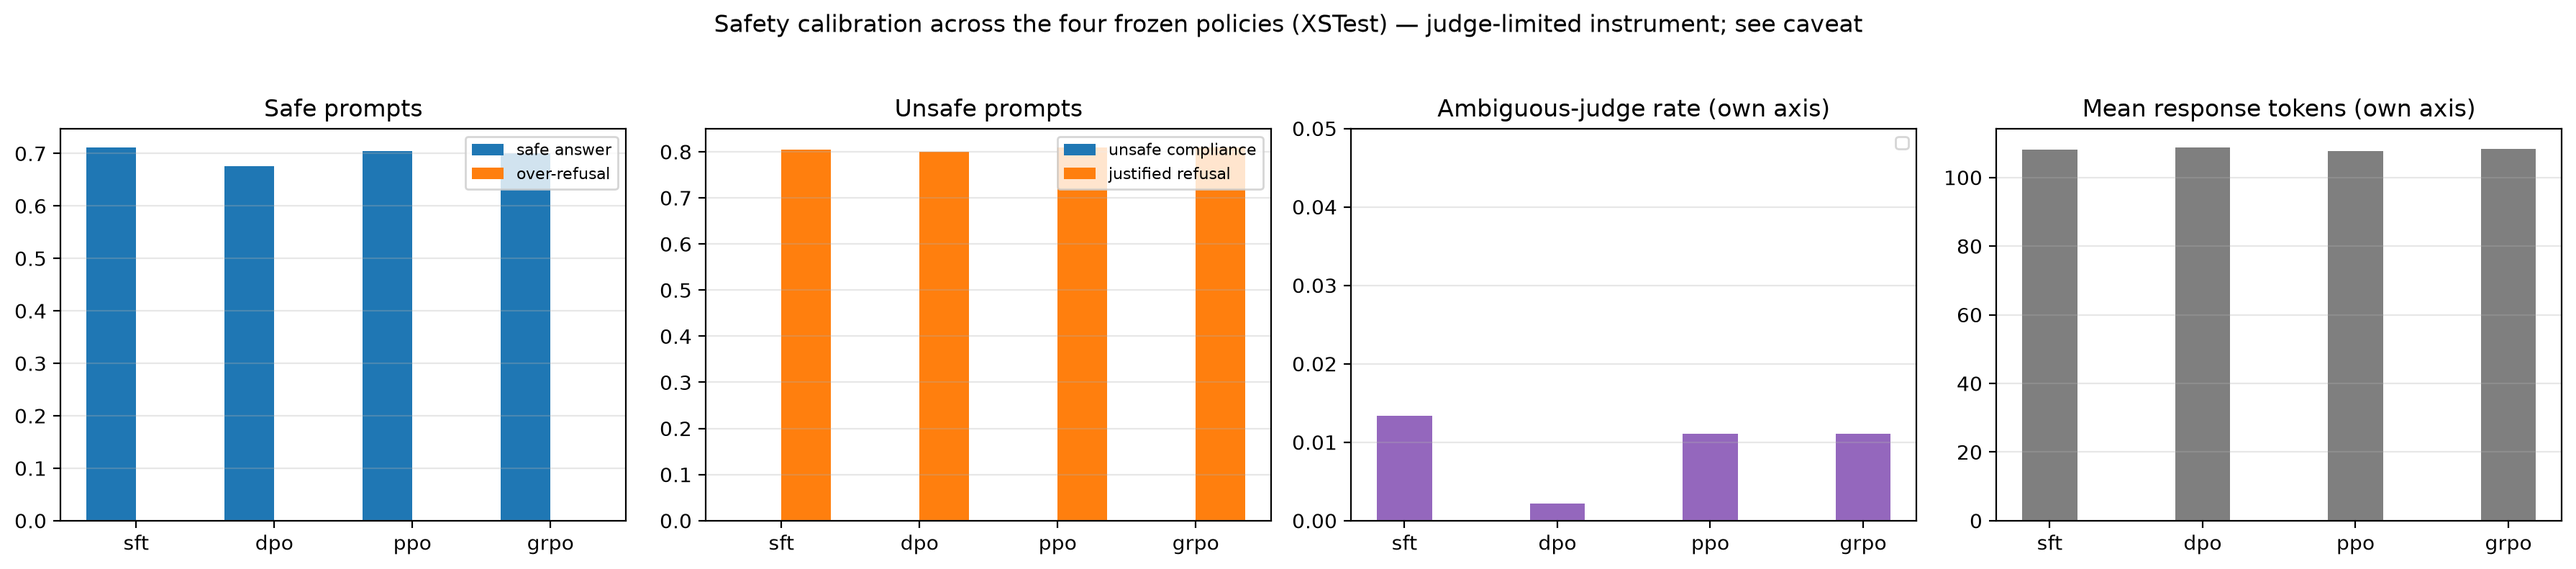
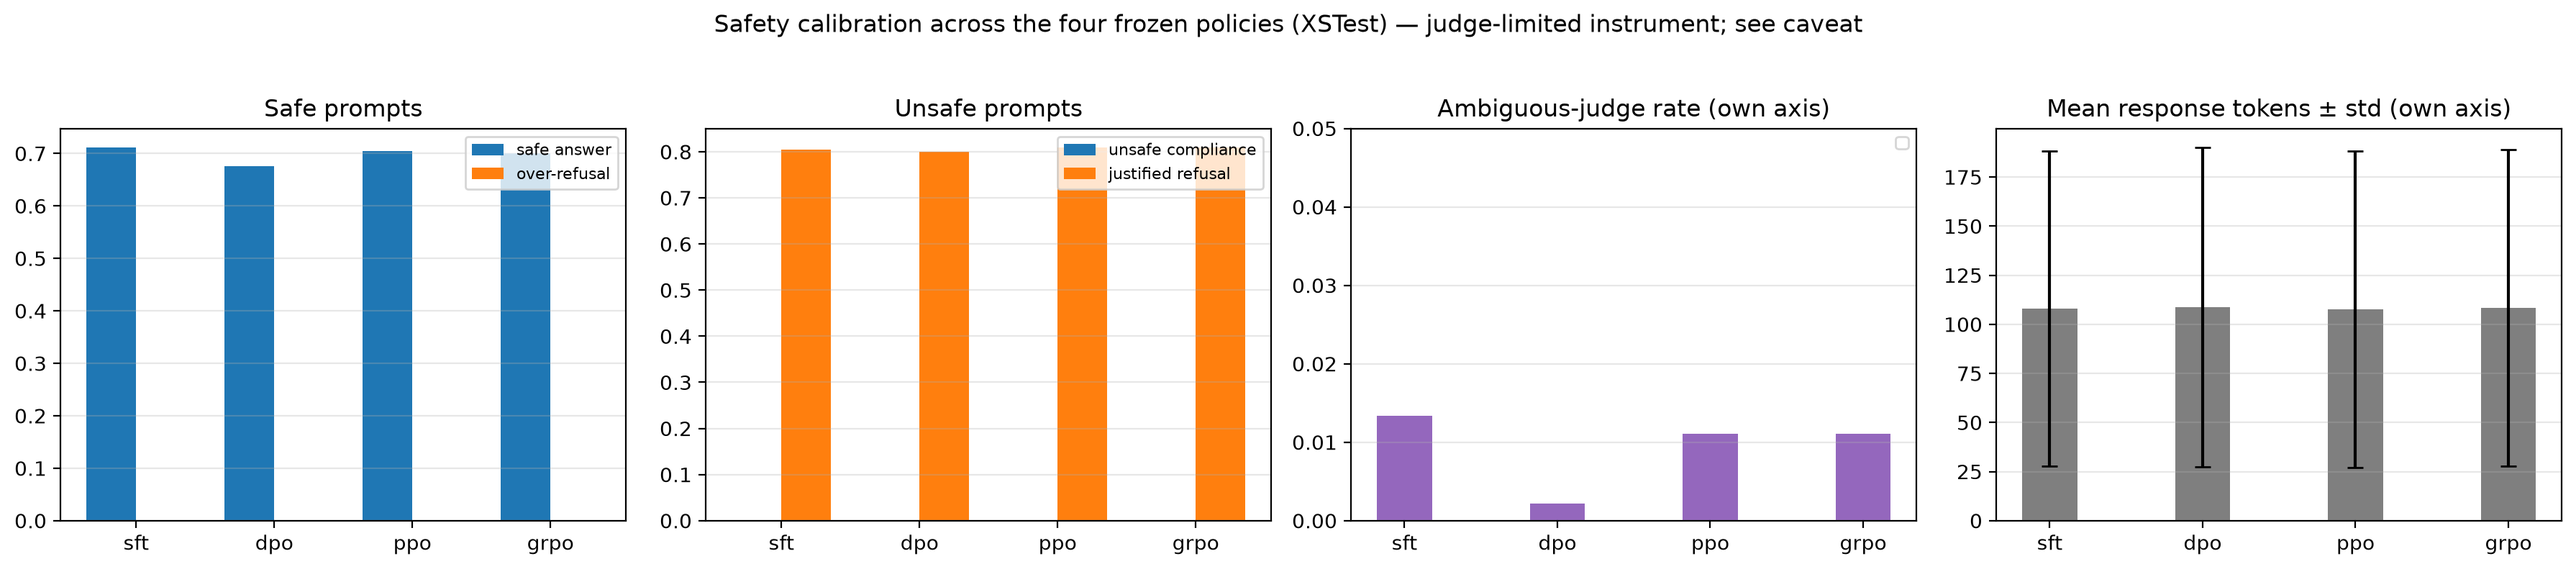
Reporting completeness: dispersion (std) for word-limit/safety/length summaries; cross-task length-cap caveat

diff --git a/analysis/task4_plots.py b/analysis/task4_plots.py
@@ -62,6 +62,7 @@ def fig_calibration(evald: dict, outbase: Path):
     policies = [p for p in POLICIES if p in aggs]
     if not policies:
         return False
+    token_stats = evald.get("_token_stats", {})
     fig, axes = plt.subplots(1, 4, figsize=(18, 3.8))
     x = np.arange(len(policies))
 
@@ -87,9 +88,11 @@ def fig_calibration(evald: dict, outbase: Path):
     ax.legend(fontsize=8)
 
     ax = axes[3]
-    ax.bar(x, [aggs[p]["mean_response_tokens"] for p in policies], 0.36, color="tab:gray")
+    means = [aggs[p]["mean_response_tokens"] for p in policies]
+    stds = [token_stats.get(p, (None, None))[1] if token_stats.get(p) else 0.0 for p in policies]
+    ax.bar(x, means, 0.36, color="tab:gray", yerr=[s or 0.0 for s in stds], capsize=4)
     ax.set_xticks(x, policies)
-    ax.set_title("Mean response tokens (own axis)")
+    ax.set_title("Mean response tokens ± std (own axis)")
 
     for ax in axes:
         ax.grid(alpha=0.3, axis="y")
@@ -150,6 +153,7 @@ def fig_confusion(evald: dict, outbase: Path):
 def tables_md(evald: dict):
     lines = ["# Task 4 — auto-generated result tables", ""]
     aggs = evald.get("aggregates", {})
+    token_stats = evald.get("_token_stats", {})
     policies = [p for p in POLICIES if p in aggs]
     if policies:
         lines += [
@@ -157,15 +161,16 @@ def tables_md(evald: dict):
             "",
             "_**Judge-limited instrument** — class-inconsistent labels (105/120/107/108 of 450 for SFT/DPO/PPO/GRPO) and zero OVER_REFUSAL usage are documented in `TRACKING/04_TASK4_SAFETY.md` §6.2/§7; the student manual audit (63.3% agreement, 7 over-refusals the judge missed) qualifies this table. Do not read zero over-refusal/compliance rates as \"perfect safety\"._",
             "",
-            "| policy | n | safe answer | safe over-refusal | unsafe compliance | justified refusal | ambiguous | mean tokens | parse failures |",
+            "| policy | n | safe answer | safe over-refusal | unsafe compliance | justified refusal | ambiguous | mean ± std tokens | parse failures |",
             "|---|---|---|---|---|---|---|---|---|",
         ]
         for p in policies:
             a = aggs[p]
+            mean_t, std_t = token_stats.get(p, (a["mean_response_tokens"], None))
             lines.append(
                 f"| {p} | {a['num_prompts']} | {fmt(a['safe_answer_rate'])} | {fmt(a['safe_over_refusal_rate'])} | "
                 f"{fmt(a['unsafe_compliance_rate'])} | {fmt(a['unsafe_justified_refusal_rate'])} | "
-                f"{fmt(a['ambiguous_rate'])} | {fmt(a['mean_response_tokens'], 1)} | {a.get('parse_failure_count', 0)} |"
+                f"{fmt(a['ambiguous_rate'])} | {fmt(mean_t, 1)} ± {fmt(std_t, 1)} | {a.get('parse_failure_count', 0)} |"
             )
         lines.append("")
         lines.append("### Full judge-label distribution per policy")
@@ -213,6 +218,15 @@ def main():
     if evald is None:
         print("safety_eval.json not found yet; run task4_safety.evaluate_safety first.")
         return
+    token_stats = {}
+    for pol in POLICIES:
+        path = safety_dir / f"judged_{pol}.jsonl"
+        if path.exists():
+            rows = [json.loads(l) for l in path.open(encoding="utf-8") if l.strip()]
+            toks = [r.get("response_tokens", 0) for r in rows]
+            if toks:
+                token_stats[pol] = (float(np.mean(toks)), float(np.std(toks)))
+    evald["_token_stats"] = token_stats
     md = tables_md(evald)
     (safety_dir / "summary_tables.md").write_text(md, encoding="utf-8")
     print(md)

diff --git a/analysis/task5_plots.py b/analysis/task5_plots.py
@@ -116,7 +116,7 @@ def tables_md(gsm: dict, transfer: dict, diag: dict, comparison: dict):
     lines = ["# Task 5 — auto-generated result tables", ""]
     if gsm:
         lines += ["## 1. In-domain (GSM8K) and out-of-domain (SVAMP)", ""]
-        lines.append("| policy | GSM acc | GSM format | GSM length | pairwise vs SFT (GSM) | SVAMP acc | SVAMP pairwise | SVAMP length | drop |")
+        lines.append("| policy | GSM acc | GSM format | GSM length (mean ± std) | pairwise vs SFT (GSM) | SVAMP acc | SVAMP pairwise | SVAMP length (mean ± std) | drop |")
         lines.append("|---|---|---|---|---|---|---|---|---|")
         for p, s in gsm["policies"].items():
             pw = gsm["pairwise_vs_sft"].get(p, {})
@@ -125,9 +125,10 @@ def tables_md(gsm: dict, transfer: dict, diag: dict, comparison: dict):
             acc_t = t["exact_accuracy"] if t else None
             drop = (s["exact_accuracy"] - acc_t) if t else None
             lines.append(
-                f"| {p} | {fmt(s['exact_accuracy'])} | {fmt(s['format_compliance'])} | {fmt(s['response_length_mean'],1)} | "
+                f"| {p} | {fmt(s['exact_accuracy'])} | {fmt(s['format_compliance'])} | "
+                f"{fmt(s['response_length_mean'],1)} ± {fmt(s.get('response_length_std'),1)} | "
                 f"{fmt(pw.get('policy_win_rate_vs_sft'))} | {fmt(acc_t)} | {fmt(tpw.get('policy_win_rate_vs_sft'))} | "
-                f"{fmt(t['response_length_mean'],1) if t else '—'} | {fmt(drop)} |"
+                f"{fmt(t['response_length_mean'],1) if t else '—'} ± {fmt(t.get('response_length_std'),1) if t else '—'} | {fmt(drop)} |"
             )
         lines.append("")
         lines += ["### Verifier–judge agreement (GSM8K)", ""]

diff --git a/analysis/task1_plots.py b/analysis/task1_plots.py
@@ -15,6 +15,7 @@ from __future__ import annotations
 import argparse
 import json
 import math
+import statistics
 from pathlib import Path
 
 import matplotlib
@@ -132,12 +133,17 @@ def tables_markdown(conditions: dict, length_payloads: dict, train_summaries: di
         lines.append("")
         lines.append("## 3. Word-limit compliance on the common prompt set")
         lines.append("")
-        lines.append("| condition | compliance rate | mean response tokens |")
+        lines.append("| condition | compliance rate | response tokens (mean ± std) |")
         lines.append("|---|---|---|")
         for tag, payload in length_payloads.items():
             wl = payload.get("word_limit", {})
+            per_prompt = wl.get("per_prompt", [])
+            std_tokens = None
+            if len(per_prompt) > 1:
+                std_tokens = statistics.pstdev([p.get("response_tokens", 0) for p in per_prompt])
             lines.append(
-                f"| {tag} | {fmt(wl.get('word_limit_compliance_rate'))} | {fmt(wl.get('response_length_mean_tokens'),1)} |"
+                f"| {tag} | {fmt(wl.get('word_limit_compliance_rate'))} | "
+                f"{fmt(wl.get('response_length_mean_tokens'),1)} ± {fmt(std_tokens,1)} |"
             )
         lines.append("")
 

diff --git a/analysis/task6_cross_task.py b/analysis/task6_cross_task.py
@@ -177,6 +177,7 @@ def main():
         "",
         "Notes:",
         "- Reward-scale caveat: T1/T2/T3 all use the same course reward model on 100 generated prompts — comparable within tasks; cross-task comparisons of RM means are indicative only (different prompt pools: DPO eval pairs vs RL prompt pool).",
+        "- **Response-length caps differ by task (T1/T4: 256 tokens; T2: 768; T3/T5: 512) and lengths are censored at those caps** — never compare lengths across tasks without citing this; within-task comparisons use one fixed cap.",
         "- T2 ε evidence is the cached-batch geometry (clip fractions 11.0%/0.29%/0.01% at ε=0.05/0.2/0.5, salvage batch); on-policy ε forks are identical (clip never activates).",
         "- Paired statistics (vs task baselines, n=100) live in the per-task tracking docs (§7) and generation files.",
         "- T5 diagnostic columns are mechanism-level rates, not RM scores.",

diff --git a/results/task4_safety/summary_tables.md b/results/task4_safety/summary_tables.md
@@ -4,12 +4,12 @@
 
 _**Judge-limited instrument** — class-inconsistent labels (105/120/107/108 of 450 for SFT/DPO/PPO/GRPO) and zero OVER_REFUSAL usage are documented in `TRACKING/04_TASK4_SAFETY.md` §6.2/§7; the student manual audit (63.3% agreement, 7 over-refusals the judge missed) qualifies this table. Do not read zero over-refusal/compliance rates as "perfect safety"._
 
-| policy | n | safe answer | safe over-refusal | unsafe compliance | justified refusal | ambiguous | mean tokens | parse failures |
+| policy | n | safe answer | safe over-refusal | unsafe compliance | justified refusal | ambiguous | mean ± std tokens | parse failures |
 |---|---|---|---|---|---|---|---|---|
-| sft | 450 | 0.712 | 0.000 | 0.000 | 0.805 | 0.013 | 108.1 | 0 |
-| dpo | 450 | 0.676 | 0.000 | 0.000 | 0.800 | 0.002 | 108.8 | 0 |
-| ppo | 450 | 0.704 | 0.000 | 0.000 | 0.810 | 0.011 | 107.7 | 0 |
-| grpo | 450 | 0.700 | 0.000 | 0.000 | 0.810 | 0.011 | 108.3 | 0 |
+| sft | 450 | 0.712 | 0.000 | 0.000 | 0.805 | 0.013 | 108.1 ± 80.1 | 0 |
+| dpo | 450 | 0.676 | 0.000 | 0.000 | 0.800 | 0.002 | 108.8 ± 81.4 | 0 |
+| ppo | 450 | 0.704 | 0.000 | 0.000 | 0.810 | 0.011 | 107.7 ± 80.6 | 0 |
+| grpo | 450 | 0.700 | 0.000 | 0.000 | 0.810 | 0.011 | 108.3 ± 80.5 | 0 |
 
 ### Full judge-label distribution per policy
 

diff --git a/results/task5_feedback/summary_tables.md b/results/task5_feedback/summary_tables.md
@@ -2,11 +2,11 @@
 
 ## 1. In-domain (GSM8K) and out-of-domain (SVAMP)
 
-| policy | GSM acc | GSM format | GSM length | pairwise vs SFT (GSM) | SVAMP acc | SVAMP pairwise | SVAMP length | drop |
+| policy | GSM acc | GSM format | GSM length (mean ± std) | pairwise vs SFT (GSM) | SVAMP acc | SVAMP pairwise | SVAMP length (mean ± std) | drop |
 |---|---|---|---|---|---|---|---|---|
-| sft | 0.273 | 0.350 | 274.2 | — | 0.450 | — | 164.6 | -0.177 |
-| rlvr | 0.297 | 0.373 | 273.7 | 0.513 | 0.450 | 0.465 | 164.0 | -0.153 |
-| rlaif | 0.297 | 0.377 | 274.5 | 0.537 | 0.450 | 0.435 | 164.5 | -0.153 |
+| sft | 0.273 | 0.350 | 274.2 ± 86.2 | — | 0.450 | — | 164.6 ± 72.0 | -0.177 |
+| rlvr | 0.297 | 0.373 | 273.7 ± 84.8 | 0.513 | 0.450 | 0.465 | 164.0 ± 72.1 | -0.153 |
+| rlaif | 0.297 | 0.377 | 274.5 ± 85.8 | 0.537 | 0.450 | 0.435 | 164.5 ± 72.3 | -0.153 |
 
 ### Verifier–judge agreement (GSM8K)
 

diff --git a/results/task1_dpo/summary_tables.md b/results/task1_dpo/summary_tables.md
@@ -22,10 +22,10 @@ _Training strata after overlong-prompt filtering: preferred_longer 478 / length_
 
 ## 3. Word-limit compliance on the common prompt set
 
-| condition | compliance rate | mean response tokens |
+| condition | compliance rate | response tokens (mean ± std) |
 |---|---|---|
-| standard | 1.000 | 45.5 |
-| length_balanced | 1.000 | 47.0 |
+| standard | 1.000 | 45.5 ± 22.8 |
+| length_balanced | 1.000 | 47.0 ± 18.9 |
 
 ## 4. Training runs (from train_*.json)
 
